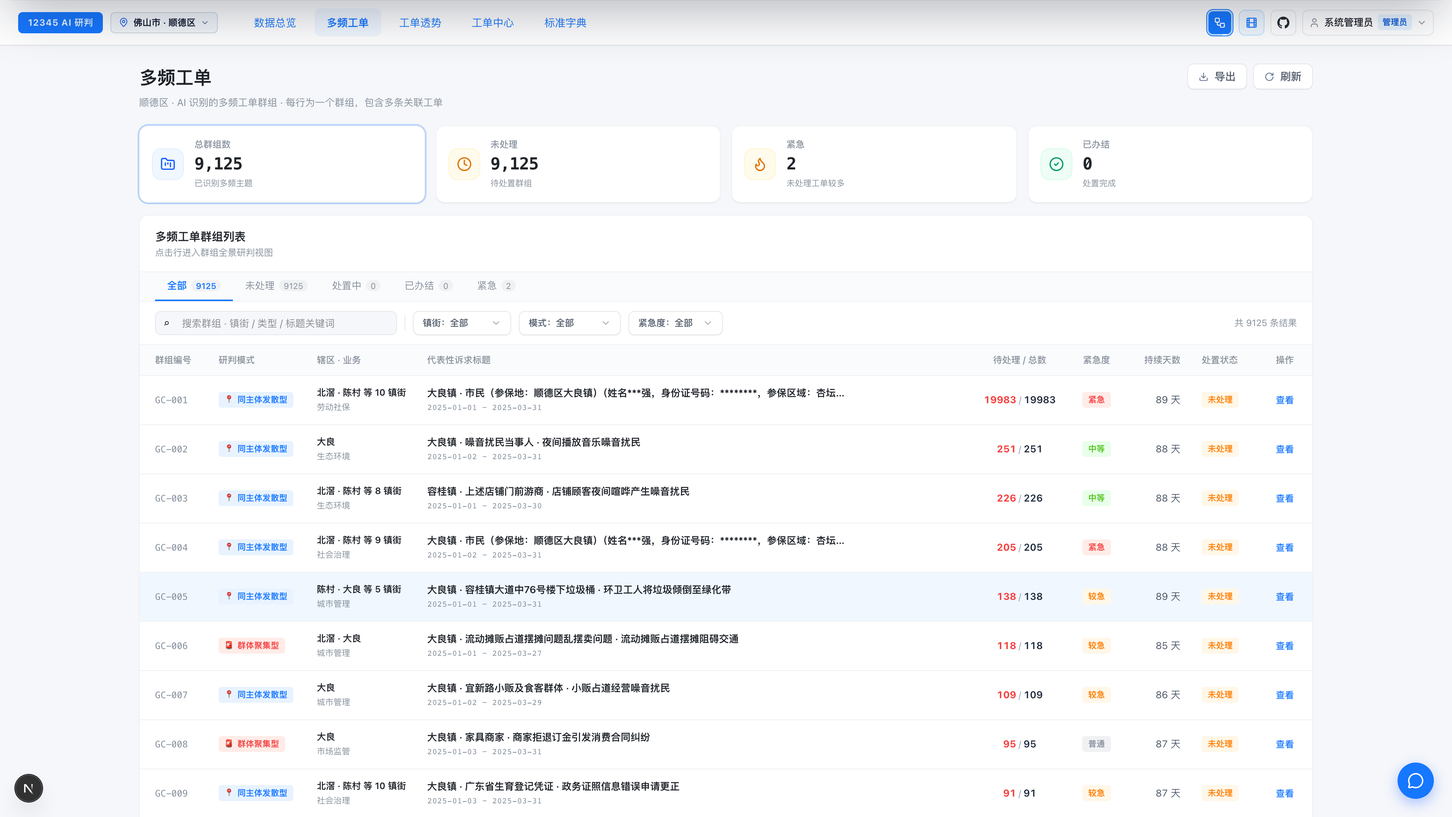
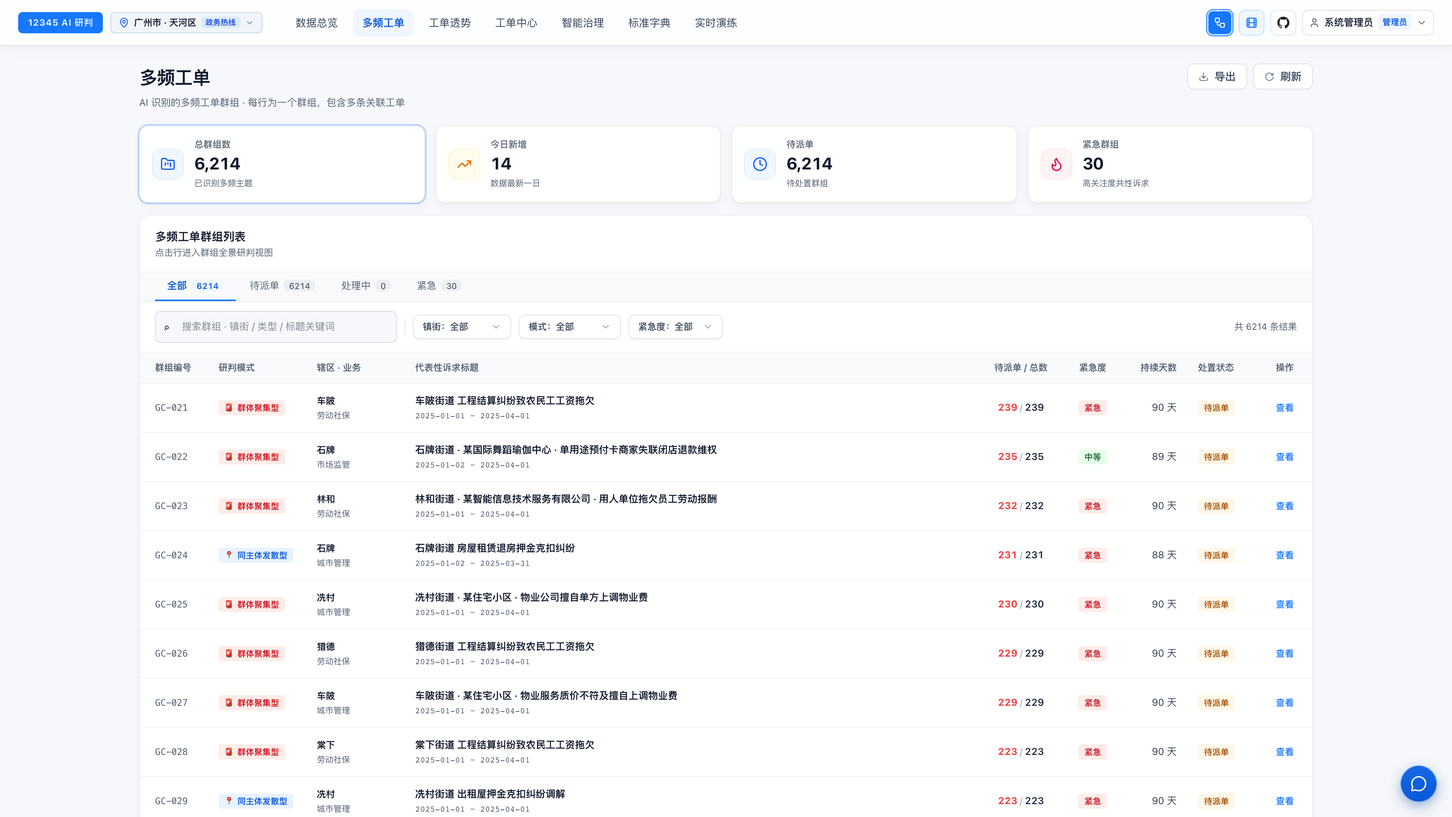
docs(pages,screenshots): refresh 4K screenshots, add docs/PAGES.md & sync docs

diff --git a/docs/PAGES.md b/docs/PAGES.md
@@ -1,0 +1,235 @@
+# 民声智理 · 全站页面功能与界面说明 (Page Architecture & UI Guide)
+
+> 本文档按路由与全局组件逐一拆解系统全站 **15 个页面路由（14 个功能页 + `/admin` 跳转入口）** 与 **2 个全局交互抽屉** 的访问权限、核心模块、交互逻辑、关联 API、双域差异与实机截图（均于生产环境 `ticket-radar:v0.1.7` 下采集）。
+>
+> - **政务 12345 主站**：https://12345.firetable.tech （`APP_DOMAIN=GOV_12345`，广州市·天河区 106k+ / 佛山市·顺德区 138k+）
+> - **跨行业电商客诉站**：https://ecom.firetable.tech （`APP_DOMAIN=ECOMMERCE_CS`，电商售后客诉中心 3,240 条 / 40 专题）
+
+---
+
+## 目录
+
+- [一、全站路由与全局抽屉总览](#一全站路由与全局抽屉总览)
+- [二、逐页功能与界面详解](#二逐页功能与界面详解)
+  - [1. 数据总览 `/` & 全局研判抽屉](#1-数据总览--与全局研判抽屉)
+  - [2. 市民/买家智能受理门户 `/submit`](#2-市民买家智能受理门户-submit)
+  - [3. 工单中心 `/tickets` 与工单详情 `/tickets/[id]`](#3-工单中心-tickets-与工单详情-ticketsid)
+  - [4. 智能治理中心 `/agent`](#4-智能治理中心-agent)
+  - [5. 多频工单 `/themes` 与多频专题详情 `/themes/[id]`](#5-多频工单-themes-与多频专题详情-themesid)
+  - [6. 工单透势 `/multifreq`](#6-工单透势-multifreq)
+  - [7. 标准字典与知识库 `/dict`](#7-标准字典与知识库-dict)
+  - [8. 全链路 AI 透视演练台 `/sandbox`](#8-全链路-ai-透视演练台-sandbox)
+  - [9. 政企智能调度指挥驾驶舱大屏 `/screen`](#9-政企智能调度指挥驾驶舱大屏-screen)
+  - [10. 站点纳管与多租户算力控制台 `/admin/regions`](#10-站点纳管与多租户算力控制台-adminregions)
+  - [11. 统一认证门户 `/login` 与 MCP 授权页 `/mcp/authorize`](#11-统一认证门户-login-与-mcp-授权页-mcpauthorize)
+- [三、跨行业电商客诉独立站对照表](#三跨行业电商客诉独立站对照表)
+
+---
+
+## 一、全站路由与全局抽屉总览
+
+| 路由 / 组件 | 页面 / 抽屉名称 | 访问权限 | 核心定位 | 实机截图 |
+| :--- | :--- | :---: | :--- | :---: |
+| `/` | 数据总览 | 仅管理员 | 全周期 KPI 态势、重点洞察、趋势曲线、镇街/渠道热力矩阵与快捷导出 | [01-overview](../screenshots/01-overview-cockpit.png) |
+| `/submit` | 市民/买家受理门户 | 已登录用户（市民/管理员） | 3D 数字人「小蠢」+ 流式语音受理、自动脱敏建单、进度追踪与假闭环重开 | [10-submit](../screenshots/10-submit-voice-xiaochun.png) |
+| `/tickets` | 工单中心 | 仅管理员 | 全量工单穿透、4 态流转、`缺资料` 筛选+一键 Agent 外呼补全、假闭环与人工复核 | [04-tickets](../screenshots/04-tickets-center.png) |
+| `/tickets/[id]` | 工单详情 | 仅管理员 | 四要素解析、诉求原文、管理员按需明文查验留痕审计、处置时间轴与 4 态操作 | [12-outreach](../screenshots/12-tickets-missing-outreach.png) |
+| `/agent` | 智能治理中心 | 仅管理员 | 一键巡检、L1/L2/L3 分级自治待办、48h 满意度回访防假闭环与每日治理专报 | [11-agent](../screenshots/11-agent-governance.png) |
+| `/themes` | 多频工单 | 仅管理员 | 多频共性专题列表（服务端分页）、群体/发散/热点模式筛选与 CSV 导出 | [03-themes](../screenshots/03-themes-cluster.png) |
+| `/themes/[id]` | 多频专题详情 | 仅管理员 | 专题公文处置建议、成员工单穿透、实体关系图谱与派单/升级/办结/重开 | — |
+| `/multifreq` | 工单透势 | 仅管理员 | 紧急×重要四象限矩阵、CGCS2000 天地图热力 / 电商仓网热力、TOP 5 聚类 | [02-multifreq](../screenshots/02-multifreq-quadrant.png) |
+| `/dict` | 标准字典与知识库 | 仅管理员 | 法定镇街/分类白名单、AI 自学习别名映射库、实时归一化演练与空间坐标库 | [05-dict](../screenshots/05-dict-governance.png) |
+| `/sandbox` | 实时演练（X-Ray 沙箱） | 仅管理员 | 6 阶段只读透视（可逆脱敏→S1→白名单→S2→吸附与假闭环→反向还原） | — |
+| `/screen` | 指挥调度大屏 | 仅管理员 | 无顶栏全屏暗色 IOC 大屏、矢量热力图、实时流水、全链路漏斗与算力节拍 | [09-screen](../screenshots/09-screen-cockpit.png) |
+| `/admin/regions` | 站点纳管与算力控制台 | 仅管理员 | 多租户 Schema 隔离、AI Scout 拓荒、Colab/Linux GPU 热插拔与 MCP Client 管理 | [07-admin](../screenshots/07-admin-regions.png) |
+| `/admin` | 管理后台入口重定向 | 仅管理员 | 校验管理员权限后跳转至 `/` | — |
+| `/login` | 统一认证门户 | 公开 | Better Auth 账号登录与 2 秒市民/买家自助注册（5 分钟 HMAC `cookieCache`） | [08-login](../screenshots/08-login-portal.png) |
+| `/mcp/authorize` | MCP OAuth 授权页 | 已登录用户 | 签发与绑定外部 Agent 访问本平台 MCP 工具链的 OAuth Token | — |
+| 全局顶部抽屉 | AI 研判流水线控制台 | 仅管理员 | React Flow 6 工序实时 DAG（接入→初筛→提取→聚合→案卷→闭环回流） | [06-pipeline](../screenshots/06-pipeline-drawer.png) |
+| 全局右侧抽屉 | AI 研判副驾驶 (`LightCopilot`) | 仅管理员 | 1 轮极速简报、3 层 PII 出网防火墙、`civic-action` 提案卡与 3D 语音播报 | — |
+
+---
+
+## 二、逐页功能与界面详解
+
+### 1. 数据总览 (`/`) 与全局研判抽屉
+
+- **访问权限**：仅管理员（普通用户登录后访问自动跳转 `/submit`，未登录跳转 `/login`）
+- **核心模块与交互**：
+  - **周期过滤与导出**：支持切换时间范围（`全部` / 近 7 天 / 近 30 天等），一键进入 `/screen` 大屏或导出总览报告。
+  - **4 大核心 KPI 卡**：总工单、今日新增、日均受理、多频主题（含归集覆盖量与天数统计）。
+  - **工单透势重点洞察**：自动置顶展示最新高关注共性专题与紧急险情卡片。
+  - **趋势与分布图表**：全周期每日工单量 vs 多频群组新增双轴曲线、镇街/渠道工单量排行榜、诉求类型环形分布图，以及镇街（或渠道）× 类型热力矩阵。
+- **关联 API**：`GET /api/overview`、`GET /api/trends`、`GET /api/regions`
+- **双域差异**：政务站展示镇街排行与行政区划维度的类型矩阵；电商站自动切换为「销售渠道排行」与「全渠道仓网客诉热度矩阵」（见下方 `13-ecommerce-domain.png`）。
+
+![数据总览态势感知大盘](../screenshots/01-overview-cockpit.png)
+
+#### 全局组件 A · AI 研判流水线工厂抽屉（顶栏 Workflow 图标触发）
+- 以 React Flow 可视化 **6 工序 DAG**：`01 工单接收与导入` → `02 分类初筛与分流`（含涉稳红线与加急件） → `03 地点与主体提取`（含节点探测延迟与提取进度条） → `04 同类问题聚合分析`（主题数与归集率） → `05 处置建议与案卷归档`（快捷键直达 `/screen`、`/sandbox`、`/multifreq`） → `06 协同处置与闭环回流`（待派单 / 处理中 / 已办结 / 假闭环拦截 / 待复核队列）。
+- **关联 API**：`GET /api/workbench/pipeline-state`、`GET /api/cluster/progress`、`POST /api/tickets/upload`、`POST /api/tickets/paste`
+
+![AI 研判流水线工厂抽屉](../screenshots/06-pipeline-drawer.png)
+
+#### 全局组件 B · AI 研判副驾驶抽屉 (`LightCopilot`，顶栏「AI 研判」按钮或右下角悬浮气泡触发）
+- **1 轮并行预取极速简报**：点击快捷问题「生成今日多频工单研判简报，汇总总量、高危主题与处置建议」时，服务端并行预取总览、高危主题与镇街指标后单轮直出 GFM 规范表格简报并支持一键导出 Markdown。
+- **3 层出网 PII 防火墙**：`@civic/anonymizer` 会话脱敏 + `sanitizeMessagesForModel` + 云端 `scrubCloudPiiText` 清洗，保障原始个人隐私不出私域。
+- **Human-in-the-Loop 提案卡**：工具层严格只读，涉及派单/升级/办结时输出可交互 `civic-action` 卡片，管理员点击「确认执行」才调用 `PATCH /api/clusters/[id]` 落库。
+- **关联 API**：`POST /api/copilot`、`PATCH /api/clusters/[id]`
+
+---
+
+### 2. 市民/买家智能受理门户 (`/submit`)
+
+- **访问权限**：所有已登录用户（普通市民/买家登录后默认落地页，也可由管理员从顶栏快捷访问体验）
+- **核心模块与交互**：
+  - **双模式填报切换**：默认「智能对话受理」，支持切换「传统表单填报」。
+  - **3D 数字人「小蠢」+ 流式语音对话 (`VoiceChatComposer`)**：集成 `@firetable/project-xiaochun` 与 `@firetable/stream-asr`，支持点击麦克风实时语音转写（开麦自动打断数字人 TTS 播报防回声）。
+  - **动态追问与结构化草稿卡**：AI 从口语描述中自动抽取分类、所属镇街/渠道、发生地点、涉事主体与联系方式，发现缺失要素时主动追问；手机/邮箱等敏感信息实时脱敏展示，支持点击字段微调后一键提交拿回执号。
+  - **页底「我的投诉/客诉进度」**：实时查看本人历史工单 4 态进度；对已办结工单可一键点击 **「未解决，申请重开」** 发起假闭环申诉（置为 `REOPENED` 并标红直达管理员待派单置顶队列）。
+- **关联 API**：`GET /api/intake/options`、`POST /api/intake/chat`、`POST /api/intake/submit`、`GET /api/intake/my-tickets`、`POST /api/intake/my-tickets/[id]/reopen`
+- **双域差异**：政务版文案为「民生诉求提交与进度追踪」（采集镇街/地点/涉事方）；电商版自动切换为「售后客诉提交与进度追踪」（采集销售渠道/订单仓网/SKU 商品）。
+
+![市民端 3D 数字人语音受理门户](../screenshots/10-submit-voice-xiaochun.png)
+
+---
+
+### 3. 工单中心 (`/tickets`) 与工单详情 (`/tickets/[id]`)
+
+- **访问权限**：仅管理员
+- **核心模块与交互（`/tickets` 列表页）**：
+  - **4 大 KPI 与 9 个快捷筛选 Tab**：展示工单总数、今日新增、待派单与紧急工单；Tab 涵盖 `全部`、`待派单`（含 `REOPENED` 与假闭环三段索引置顶，0.25ms 响应）、`处理中`、`紧急`、`多频聚类`、`单发诉求`、**`缺资料`**（由数据库 `is_missing_info` 触发器 + 部分索引实时筛出）、**`疑似假闭环`** 与 **`待人工复核`**。
+  - **行内「Agent 跟进」一键外呼补全**：对标记「缺资料」的未办结工单，直接点击行内「Agent 跟进」（或在右侧抽屉/详情页点击），自动创建或复用 `MISSING_INFO` 任务并弹出 **3D 小蠢语音外呼窗口 (`VoiceOutreachDialog`)**，支持语音或快捷回复模拟补充门牌与涉事主体并自动回写数据库与处置时间轴。
+  - **多维检索与安全导出**：支持关键词（`pg_trgm` GIN 加速）、镇街/渠道、分类、聚类状态与时间筛选，支持防公式注入 CSV 导出。
+- **核心模块与交互（`/tickets/[id]` 详情页）**：
+  - 展示 AI 四要素解析卡片、诉求原文卡片、所属多频专题跳转、4 态统一操作按钮（`待派单 / 已派单 / 处理中 / 已办结`）、手工纠偏实体/分类并沉淀别名、以及完整审计 `处置时间轴`。
+  - **管理员 PII 按需明文查验（留痕审计）**：工单列表与默认详情均返回脱敏值；管理员在详情页输入 **4–200 字查验事由** 后点击「申请查看明文（留痕审计）」，服务端先 Fail-Closed 写入 `public.pii_audit_logs` 再返回明文，明文仅在页面内存态临时展示（不落 `localStorage`），支持点击隐藏与折叠查看本单历史审计记录。
+- **关联 API**：`GET /api/workorders`、`GET/PATCH /api/workorders/[id]`、`POST /api/workorders/[id]/reveal-pii`、`GET /api/admin/pii-audit`、`POST /api/agent/tasks`、`POST /api/agent/outreach/voice-turn`、`GET/PATCH /api/review`
+
+![工单中心全量穿透](../screenshots/04-tickets-center.png)
+
+![缺资料筛查与 3D 数字人 AI 语音外呼补全](../screenshots/12-tickets-missing-outreach.png)
+
+---
+
+### 4. 智能治理中心 (`/agent`)
+
+- **访问权限**：仅管理员
+- **核心模块与交互**：
+  - **一键主动巡检**：点击右上角「立即巡检」，幂等扫描当前工作区的缺资料工单、超期高危专题与待回访已办结事项。
+  - **三级自治分权统计与队列**：
+    - **`L1 自动执行` (`L1_AUTO`)**：双域超期催办（`SLA_OVERDUE`）与电商低风险缺资料补采（`MISSING_INFO`），自动推进并记入台账；
+    - **`L2 人工审批` (`L2_APPROVAL`)**：政务缺资料语音外呼核实（`MISSING_INFO`）与双域 48h 满意度回访（`REOPEN_CALLBACK`），需人工点击「发起 AI 语音外呼」或「批准执行」才生效；
+    - **`L3 红线熔断` (`L3_BLOCKED`)**：命中政务涉稳/重大安全红线或电商食安/12315 监管红线（`REDLINE_BLOCK`）时强制禁用 AI 自动外联，直接转人工核查专班接管。
+  - **48h 满意度回访防假闭环**：对已办结事项发起回访，一旦市民/买家反馈问题未解决，自动将工单/专题重开并标红为 `疑似假闭环`。
+  - **每日研判专报**：一键生成并持久化当前工作区 Markdown 治理专报（含 GFM 表格与下载导出）。
+- **关联 API**：`GET/POST /api/agent/tasks`、`PATCH /api/agent/tasks/[id]`、`POST /api/agent/patrol`、`POST /api/agent/outreach/voice-turn`、`GET/POST /api/agent/report`
+
+![智能治理主动 Agent 中心](../screenshots/11-agent-governance.png)
+
+---
+
+### 5. 多频工单 (`/themes`) 与多频专题详情 (`/themes/[id]`)
+
+- **访问权限**：仅管理员
+- **核心模块与交互**：
+  - **`/themes` 列表页**：展示总群组数、今日新增、待派单、紧急群组 4 项 KPI；采用服务端分页与索引预排序（`?page=1&size=15&sort=story`），支持按 `群体聚集型 / 同主体发散型 / 时空热点型` 模式、镇街/渠道、紧急度及关键词检索，支持导出 CSV。
+  - **`/themes/[id]` 专题详情页**：展示头部 AI 研判综合摘要与公文级处置建议（牵头单位、协办单位、时限、处置路径）、实体知识图谱拓扑可视化、全部成员工单穿透列表，以及 4 态处置动作（派单/推进/升级督办/办结/重开）与 `处置时间轴`。
+- **关联 API**：`GET /api/clusters`、`GET/PATCH /api/clusters/[id]`、`GET /api/clusters/[id]/members`、`GET /api/graph`
+
+![多频工单群诉与处置列表](../screenshots/03-themes-cluster.png)
+
+---
+
+### 6. 工单透势 (`/multifreq`)
+
+- **访问权限**：仅管理员
+- **核心模块与交互**：
+  - 使用 `/api/clusters?view=summary` 轻量摘要视图秒级加载（响应体积由数 MB 降至 zstd ~1.5KB）。
+  - **空间 / 渠道热力图**：政务域基于天地图 CGCS2000 瓦片叠加法定镇街边界多边形与工单计数胶囊，支持点击镇街联动筛选；电商域切换为全渠道仓网热度矩阵。
+  - **紧急 × 重要四象限矩阵**：将专题按紧急度与工单量分布至「紧急且重要」「重要不紧急」「快速处置」「观察等待」四个象限，展示各象限真实总数与 Top25 代表圆点（点击直钻详情）。
+  - **TOP 5 多频聚类榜与置信度阈值切换**：支持按 `近 7 天 / 全部`、`置信度阈值` 动态筛选。
+- **关联 API**：`GET /api/clusters?view=summary`、`GET /api/regions/[id]/boundary`、`GET /api/map/tile`
+
+![工单透势四象限与天地图热力](../screenshots/02-multifreq-quadrant.png)
+
+---
+
+### 7. 标准字典与知识库 (`/dict`)
+
+- **访问权限**：仅管理员
+- **核心模块与交互**：
+  - **4 项知识资产 KPI**：法定镇街总数（或渠道节点数）、覆盖村居/社区、分类体系、活跃别名映射数。
+  - **AI 别名归一化即时替换演练（Live Sandbox）**：输入包含口语俗称/旧称的文本，实时对比归一化替换后的规范全称。
+  - **四维 Tab 管理**：`别名知识库映射`（支持检索与手动新增/删除）、`空间地理坐标库 (Canonical)`（支持 Leaflet 地图打点预览与天地图地理编码）、`法定区划树` 与 `业务分类标准`。
+- **关联 API**：`GET/POST/DELETE /api/dict`、`GET /api/map/geocode`
+
+![标准字典与知识库](../screenshots/05-dict-governance.png)
+
+---
+
+### 8. 全链路 AI 透视演练台 (`/sandbox`)
+
+- **访问权限**：仅管理员
+- **核心模块与交互**：
+  - 严格默认只读不落库（`persist: false`），不污染线上工单基线计数。
+  - **典型场景一键填充**：内置典型案例（主体违停精确对齐、口语俗称别名归一、已办结复发假闭环探测等），也可自由输入任意文本和选填标题/镇街。
+  - **6 阶段端到端可观测拆解**：实时展示并记录耗时：`01 可逆脱敏 Diff` → `02 System-1 快思考神经引擎（4-Head ONNX + 11 类红线）` → `03 法定白名单与别名归一` → `04 System-2 慢思考结构化抽取` → `05 语义吸附与假闭环探测` → `06 反向脱敏还原与公文处置建议`。
+- **关联 API**：`POST /api/sandbox/xray`
+
+---
+
+### 9. 政企智能调度指挥驾驶舱大屏 (`/screen`)
+
+- **访问权限**：仅管理员（通过数据总览「数据大屏」按钮或直接访问 `/screen` 进入，支持全屏无顶栏 4K/8K 投屏）
+- **核心模块与交互**：
+  - **深色沉浸式布局**：顶部显示实时时钟、站点快捷切换、`实时流: 开启` SSE 连接指示、全屏按钮与 `退出 ESC`。
+  - **顶部 4 指标条 + 五大态势板块**：今日受理总量、办结率、活跃多频群组、高风险群诉；分类占比环图、高风险群诉预警滚动、实时工单接入流水（LIVE STREAM）、中间暗色 CGCS2000 测绘热力底图（电商域为暗色全渠道仓网矩阵）、镇街/渠道态势排行榜、闭环处置全链路漏斗（接入→已研判→多频归集→派单→办结→假闭环拦截）、工单时序脉冲、24h 来电波峰与 System-2 研判节点实时节拍。
+- **关联 API**：`GET /api/cockpit`、`GET /api/sse`、`GET /api/regions/[id]/boundary`
+
+![政企智能调度指挥驾驶舱大屏](../screenshots/09-screen-cockpit.png)
+
+---
+
+### 10. 站点纳管与多租户算力控制台 (`/admin/regions`)
+
+- **访问权限**：仅管理员
+- **核心模块与交互**：
+  - **多租户站点管理**：查看各租户 Schema 物理空间（`region_{id}`）、工单/专题/词典体量、切换当前活动工作区、导入自定义行政边界或一键启动 **SuperAgent AI Scout** 30 秒创建并拓荒新城市站点。
+  - **算力集群与 Colab GPU 热插拔管理**：查看环境变量只读基础节点，并可动态新增、启停、删除与实时探活远程 Colab / Tailscale / 云端 OpenAI 兼容 System-2 与 Embedding 节点。
+  - **已接入 MCP Agent 管理**：查看并随时吊销已获 OAuth 授权接入的外部 MCP 客户端凭据。
+- **关联 API**：`GET/POST /api/admin/regions`、`GET/PATCH/DELETE /api/admin/regions/[id]`、`POST /api/admin/regions/ai-scout`、`POST /api/admin/regions/[id]/fetch-boundary`、`POST /api/admin/regions/[id]/seed-vocab`、`POST /api/admin/regions/[id]/upload-map`、`GET/POST /api/admin/compute-nodes`、`PATCH/DELETE /api/admin/compute-nodes/[id]`、`POST /api/admin/compute-nodes/probe`、`GET/DELETE /api/admin/mcp-clients`
+
+![多租户站点纳管与算力控制台](../screenshots/07-admin-regions.png)
+
+---
+
+### 11. 统一认证门户 (`/login`) 与 MCP 授权页 (`/mcp/authorize`)
+
+- **`/login`（公开访问）**：
+  - **双模式切换**：支持「账号登录」（含 Better Auth `username` 插件，启用 5 分钟 HMAC 签名 `cookieCache` 免频繁回库）与「市民/买家体验注册」（2 秒自助创建普通角色账号并自动进入 `/submit`）。
+  - **双域品牌自适应**：根据当前访问域（`GOV_12345` vs `ECOMMERCE_CS`）自动切换页面标题、特性标签与底部隐私声明；仅非生产或显式开启演示提示时展示本地快捷填充通道。
+- **关联 API**：`/api/auth/[...all]`
+
+![统一认证门户](../screenshots/08-login-portal.png)
+
+- **`/mcp/authorize`（需登录）**：
+  - 为 Claude Desktop、Cursor、OpenClaw 等外部 MCP 客户端提供标准化 OAuth 2.0 授权确认界面；配合根目录 `/.well-known/oauth-protected-resource` 与 `/.well-known/oauth-authorization-server` 完成无配置发现与 Token 签发。
+  - **关联 API**：`POST /api/mcp/grant`、`POST /api/mcp/token`、`POST /api/mcp`
+
+---
+
+## 三、跨行业电商客诉独立站对照表
+
+独立部署于 https://ecom.firetable.tech （容器 `12345-ecom-app`，`APP_DOMAIN=ECOMMERCE_CS`），复用同一套生产镜像 `ticket-radar:v0.1.7` 与底层认知引擎，全站界面与规则自适应差异如下：
+
+| 维度 | 政务 12345 主站 (`12345.firetable.tech`) | 电商售后客诉站 (`ecom.firetable.tech`) |
+| :--- | :--- | :--- |
+| **空间 / 地理视图** | 启用天地图 CGCS2000 + 法定镇街矢量底图 (`hasGeoMap: true`) | 自动切换为 **全渠道 / 仓网客诉热度分布矩阵** (`hasGeoMap: false`) |
+| **核心术语体系** | 所属镇街 · 涉事主体 · 民生工单 · 牵头部门 · 多频研判专题 | 渠道/仓网 · 涉事 SKU/商品 · 售后客诉单 · 负责团队 · 多频客诉案卷 |
+| **分类标签池** | 城市管理 / 市场监管 / 社会治理 / 交通出行 / 生态环境 / 劳动社保 / 公共安全 | 商品质量 / 物流履约 / 退换售后 / 虚假宣传 / 价格促销 / 服务态度 / 食品安全 |
+| **缺资料判定 (`is_missing_info`)** | 缺路名门牌或涉事商铺单位或镇街 | 额外强制校验订单/仓网地址长度 `<= 6` 或缺少具体 SKU |
+| **L1/L2 自治策略** | 缺资料补全需 **L2 人工审批**；超期催办 L1 自动执行 | 低风险缺资料补全与催办 **L1 自动执行**；48h 赔付回访仍 L2 人工审批 |
+| **L3 红线熔断规则** | 11 类涉稳/群访/重大安全险情红线 | 食品安全中毒 / 12315 监管举报 / 社媒大规模舆情红线 |
+
+![电商售后客诉独立示范站](../screenshots/13-ecommerce-domain.png)

diff --git a/README.md b/README.md
@@ -20,7 +20,7 @@
     <img src="https://img.shields.io/badge/💻_源码仓库-FireTable%2F12345-0F172A?style=for-the-badge&logo=github&logoColor=white" alt="GitHub" />
   </a>
   <a href="docs/DEPLOY.md">
-    <img src="https://img.shields.io/badge/🚀_生产部署-ticket--radar%3Av0.1.5-0284C7?style=for-the-badge&logo=docker&logoColor=white" alt="Deploy" />
+    <img src="https://img.shields.io/badge/🚀_生产部署-ticket--radar%3Av0.1.7-0284C7?style=for-the-badge&logo=docker&logoColor=white" alt="Deploy" />
   </a>
 </p>
 
@@ -59,7 +59,7 @@
 
 </div>
 
-> **💡 双域名独立生产部署（同镜像 `ticket-radar:v0.1.5` 双容器运行）**：
+> **💡 双域名独立生产部署（同镜像 `ticket-radar:v0.1.7` 双容器运行）**：
 > - **政务 12345 主站**：[https://12345.firetable.tech](https://12345.firetable.tech)（容器 `12345-app`，`APP_DOMAIN=GOV_12345`）
 >   - 预置示范站点：**广州市·天河区**（约 **10.6 万**条 / 106,543 条工单、21 街道）、**佛山市·顺德区**（约 **13.8 万**条 / 138,704 条工单、10 镇街）
 > - **跨行业电商客诉示范站**：[https://ecom.firetable.tech](https://ecom.firetable.tech)（容器 `12345-ecom-app`，`APP_DOMAIN=ECOMMERCE_CS`）
@@ -230,7 +230,7 @@
 
 ## 📸 核心系统界面与全景研判矩阵 (System Showcase & Visual Matrix)
 
-系统遵循 **Civic Light** 现代政务设计体系，以下核心视窗均在 4K / Retina 分辨率（3840 × 2160）下实机捕获：
+系统遵循 **Civic Light** 现代政务设计体系，以下核心视窗均在生产环境（`ticket-radar:v0.1.7`）实机捕获（`01`–`09` 为 **4K 3840 × 2160**，`10`–`13` 为 **Retina 2880 × 1800**）；全站每个页面的功能、权限与接口说明详见 **[全站页面功能与界面说明 (docs/PAGES.md)](docs/PAGES.md)**：
 
 ### 旗舰总览 · 政企智能调度指挥驾驶舱大屏 (`/screen`)
 > 专为城市运行管理中心（IOC）指挥大厅设计，支持 4K/8K 巨幕投屏，集天地图全域民声热力、流式脉冲、AI 研判态势与多维指标于一体。
@@ -245,7 +245,7 @@
 | 01. 数据总览 · 态势感知大盘 (`/`) | 06. AI 研判工厂 · React Flow 认知图谱 (顶部抽屉) |
 | :--- | :--- |
 | ![数据总览大盘](screenshots/01-overview-cockpit.png) | ![AI 研判工作流引擎](screenshots/06-pipeline-drawer.png) |
-| **核心亮点**：辖区法定矢量底图像素级对齐、全量工单/多频聚类/日均负荷 KPI 卡片、分类环形态势图、AI 研判副驾驶入口。 | **核心亮点**：顶部门户集成式 React Flow 流水线抽屉，可视化呈现 System-1 快思考、System-2 慢思考、空间聚类与案卷生成 DAG 节点。 |
+| **核心亮点**：辖区法定矢量底图像素级对齐、全量工单/多频聚类/日均负荷 KPI 卡片、分类环形态势图、AI 研判副驾驶入口。 | **核心亮点**：顶部门户集成式 React Flow 流水线抽屉，可视化呈现接入导入、分类初筛、要素提取、同类聚合、案卷生成与第 6 工序协同处置闭环回流。 |
 
 ### 第二层 · 深度研判决策：四象限透势与多频群诉案卷
 
@@ -354,7 +354,7 @@ pnpm dev
 | `pnpm dev` | **全栈启动**：并行拉起 System-2 本地大模型推理引擎 (8132) + Next.js (3000，含内嵌研判 worker) |
 | `pnpm dev:models` | **算力集群**：并行拉起 System-2 (8132) + Civic-Embed (8133)，支持通过 Tailscale 供 VPS 跨网调度 |
 | `pnpm db:init` | **全量一键初始化**：表结构迁移、示范租户、高精天地图边界、全量字典与管理员账号 |
-| `pnpm db:migrate` | 执行幂等数据库迁移（含 `0012_perf_indexes.sql` 触发器与覆盖索引） |
+| `pnpm db:migrate` | 执行幂等数据库迁移（含 `0012` 覆盖索引/触发器与 `0013` PII 审计日志表） |
 | `pnpm db:init-admin` | 初始化/重置默认管理员账号 |
 | `pnpm db:init-tenants` | 初始化/同步多租户站点、行政边界与别名词库 |
 | `pnpm db:studio` | 打开 Drizzle Studio 可视化数据管理面板 |
@@ -364,6 +364,7 @@ pnpm dev
 
 ## 📚 专属文档导航体系 (Documentation)
 
+- 🖥 **[全站页面功能与界面说明 (PAGES.md)](docs/PAGES.md)**：逐页拆解全站 15 个路由与 2 个全局抽屉的权限、交互模块、关联接口、双域差异与实机截图。
 - 🚀 **[系统生产部署与运维手册 (DEPLOY.md)](docs/DEPLOY.md)**：覆盖本地开发、双域名 Docker Compose 容器化编排（`12345-app` + `12345-ecom-app`）与纯离线私有化部署。
 - 📐 **[AI 研判认知工作流规范 (WORKFLOW.md)](docs/WORKFLOW.md)**：System-1/2 双系统图状态机、同案同地判准、向量嵌入与主动治理闭环规范。
 - 🗺 **[空间地理与天地图 GIS 规范 (SPATIAL.md)](docs/SPATIAL.md)**：天地图 CGCS2000 测绘级底图无偏移对齐、四级镇街矢量面与时空核心提纯标准。

diff --git a/docs/DEPLOY.md b/docs/DEPLOY.md
@@ -20,7 +20,7 @@
 
 ## 一、系统部署全景架构（双域名同镜像）
 
-系统通过运行期环境变量 `APP_DOMAIN` 实现**同镜像双实例双域名物理域隔离**：一份 `ticket-radar:v0.1.5` 生产镜像同时承载政务主站与电商售后独立站，共用后端 PostgreSQL 16 + `pgvector` 实例（按独立 Schema 隔离），前端由共享 Caddy 容器按子域与路径特性分流。
+系统通过运行期环境变量 `APP_DOMAIN` 实现**同镜像双实例双域名物理域隔离**：一份 `ticket-radar:v0.1.7` 生产镜像同时承载政务主站与电商售后独立站，共用后端 PostgreSQL 16 + `pgvector` 实例（按独立 Schema 隔离），前端由共享 Caddy 容器按子域与路径特性分流。
 
 ```text
 本地开发 / 演示机                          VPS 生产环境 (/opt/12345-stack/)
@@ -28,11 +28,11 @@
 12345 项目源码                             ├── Dockerfile         (Node 22 + pnpm@9 + Next.js Standalone)
   ↓ rsync                                  ├── docker-compose.yml (12345-postgres + 12345-app + 12345-ecom-app)
   + .env.vps (不入库)                       ├── .env.vps           (生产密钥与外部模型配置)
-                                           └── db/migrations/*    (含 0011 / 0012 性能迁移)
+                                           └── db/migrations/*    (含 0011–0013 性能与审计迁移)
                                                  ↓ docker compose --env-file .env.vps up -d
                                            + 12345-postgres       (pgvector/pgvector:pg16, shm_size: 512m, 内网 :5432)
-                                           + 12345-app            (ticket-radar:v0.1.5, APP_DOMAIN=GOV_12345, :3100)
-                                           + 12345-ecom-app       (ticket-radar:v0.1.5, APP_DOMAIN=ECOMMERCE_CS, :3100)
+                                           + 12345-app            (ticket-radar:v0.1.7, APP_DOMAIN=GOV_12345, :3100)
+                                           + 12345-ecom-app       (ticket-radar:v0.1.7, APP_DOMAIN=ECOMMERCE_CS, :3100)
                                                  ↓ Docker 外部共享网络 (langgraph-app_default)
                                            langgraph-app-caddy-1  (共享 Caddy 反向代理 + 自动 HTTPS)
                                              ├── https://12345.firetable.tech → 12345-app:3100
@@ -47,8 +47,8 @@
 
 | 服务名 | 容器名 | 生产镜像 | 绑定域名 | `APP_DOMAIN` | `CIVIC_SKIP_BOOTSTRAP` |
 | :--- | :--- | :--- | :--- | :--- | :---: |
-| `app` | `12345-app` | `ticket-radar:v0.1.5` | `https://12345.firetable.tech` | `GOV_12345` | `"1"` |
-| `ecom-app` | `12345-ecom-app` | `ticket-radar:v0.1.5` | `https://ecom.firetable.tech` | `ECOMMERCE_CS` | `"1"` |
+| `app` | `12345-app` | `ticket-radar:v0.1.7` | `https://12345.firetable.tech` | `GOV_12345` | `"1"` |
+| `ecom-app` | `12345-ecom-app` | `ticket-radar:v0.1.7` | `https://ecom.firetable.tech` | `ECOMMERCE_CS` | `"1"` |
 
 > **为什么生产设置 `CIVIC_SKIP_BOOTSTRAP="1"`**：`instrumentation.ts` 在 Node.js 运行时启动后默认延迟 2 秒自动触发 `/api/internal/cluster-bootstrap` 扫描全库未研判工单。双实例生产环境下将其关闭可避免容器滚动重启时瞬时抢占 LLM/Embedding 算力与数据库连接，按需由新工单入库、MCP 推送或管理员手动触发增量研判。
 
@@ -163,7 +163,7 @@ pnpm exec tsc --noEmit && pnpm build
 rsync -avz --exclude={node_modules,.next,.git,*.tsbuildinfo,.env.local,.env.vps} \
   ./ root@<VPS_HOST>:/opt/12345-stack/
 
-# 3. VPS 构建新镜像 ticket-radar:v0.1.5 并启动双实例（app 构建镜像，ecom-app 复用同镜像）
+# 3. VPS 构建新镜像 ticket-radar:v0.1.7 并启动双实例（app 构建镜像，ecom-app 复用同镜像）
 ssh root@<VPS_HOST> 'cd /opt/12345-stack && \
   docker compose --env-file .env.vps build app && \
   docker compose --env-file .env.vps up -d postgres app ecom-app && \

diff --git a/docs/TODOS.md b/docs/TODOS.md
@@ -2,13 +2,13 @@
 
 > 本文档作为项目交付状态与剩余待办总账使用。已交付项以 `[x]` 标注并附核验后的 commit hash 与实测效果；待办项以 `[ ]` 按优先级排序。
 >
-> **当前工作分支**：`main`（已于 `84b925a` 合并 `feat/closed-loop`，同步自 2026-11-24）
+> **当前工作分支**：`main`（同步自 2026-11-24）
 >
 > **生产现状快照**：
-> - **双域名同镜像生产架构**（`ticket-radar:v0.1.5`，`CIVIC_SKIP_BOOTSTRAP="1"`）：
->   - 政务热线主站：`https://12345.firetable.tech` → `12345-app:3100`（`APP_DOMAIN=GOV_12345`，承载 `region_gz_tianhe` ~106.5k、`region_fs_shunde` ~138.7k）
+> - **双域名同镜像生产架构**（`ticket-radar:v0.1.7`，`CIVIC_SKIP_BOOTSTRAP="1"`）：
+>   - 政务热线主站：`https://12345.firetable.tech` → `12345-app:3100`（`APP_DOMAIN=GOV_12345`，承载 `region_gz_tianhe` ~106.6k、`region_fs_shunde` ~138.8k）
 >   - 电商售后独立站：`https://ecom.firetable.tech` → `12345-ecom-app:3100`（`APP_DOMAIN=ECOMMERCE_CS`，承载 `region_ecom_demo` 3,240）
-> - **主导航路由**（`app/_components/civic/nav-items.ts`）：数据总览 `/` · 多频工单 `/themes` · 工单透势 `/multifreq` · 工单中心 `/tickets` · 智能治理 `/agent` · 标准字典 `/dict` · 实时演练 `/sandbox`；另含市民端 `/submit`、指挥大屏 `/screen`、站点管理 `/admin/regions`、MCP 授权 `/mcp/authorize`。
+> - **主导航路由与逐页说明**（详见 [docs/PAGES.md](PAGES.md)）：数据总览 `/` · 多频工单 `/themes` · 工单透势 `/multifreq` · 工单中心 `/tickets` · 智能治理 `/agent` · 标准字典 `/dict` · 实时演练 `/sandbox`；另含市民端 `/submit`、指挥大屏 `/screen`、站点管理 `/admin/regions`、MCP 授权 `/mcp/authorize`。
 
 ---
 
@@ -17,7 +17,7 @@
 ### A. 架构升级与双域名独立部署
 - [x] **双域名同镜像独立部署与 `APP_DOMAIN` 物理域隔离** — `ea76ae2`、`ee85bf8`、`3e031b2`
   - 触达：`docker-compose.yml`、`lib/app-domain.ts`、`lib/domain-profile.ts`、`lib/tenant/request-region.ts`、`app/api/regions/route.ts`、`lib/mcp/tools.ts`
-  - 实测效果：同一生产镜像 `ticket-radar:v0.1.5` 独立承载 `12345.firetable.tech`（政务 `hasGeoMap: true`）与 `ecom.firetable.tech`（电商 `hasGeoMap: false` 切 `DomainChannelMatrix` 全渠道仓网矩阵），彻底阻断跨业务域 Cookie 与 MCP 越权访问；`CIVIC_SKIP_BOOTSTRAP="1"` 避免重启抢占算力。
+  - 实测效果：同一生产镜像同构独立承载 `12345.firetable.tech`（政务 `hasGeoMap: true`）与 `ecom.firetable.tech`（电商 `hasGeoMap: false` 切 `DomainChannelMatrix` 全渠道仓网矩阵），彻底阻断跨业务域 Cookie 与 MCP 越权访问；`CIVIC_SKIP_BOOTSTRAP="1"` 避免重启抢占算力。
 - [x] **热插拔动态算力节点池（LOCAL / COLAB / CLOUD）** — `fed2c28`、`a459957`
   - 触达：`db/schema.ts`（`public.compute_nodes`）、`lib/compute-nodes.ts`、`app/api/admin/compute-nodes/**`、`app/_components/civic/compute-nodes-panel.tsx`
   - 实测效果：支持在 `/admin/regions` 在线增删与探活 System-2 / Embedding 节点，本地或 Colab 掉线时 2 秒内自动切换云端回退。
